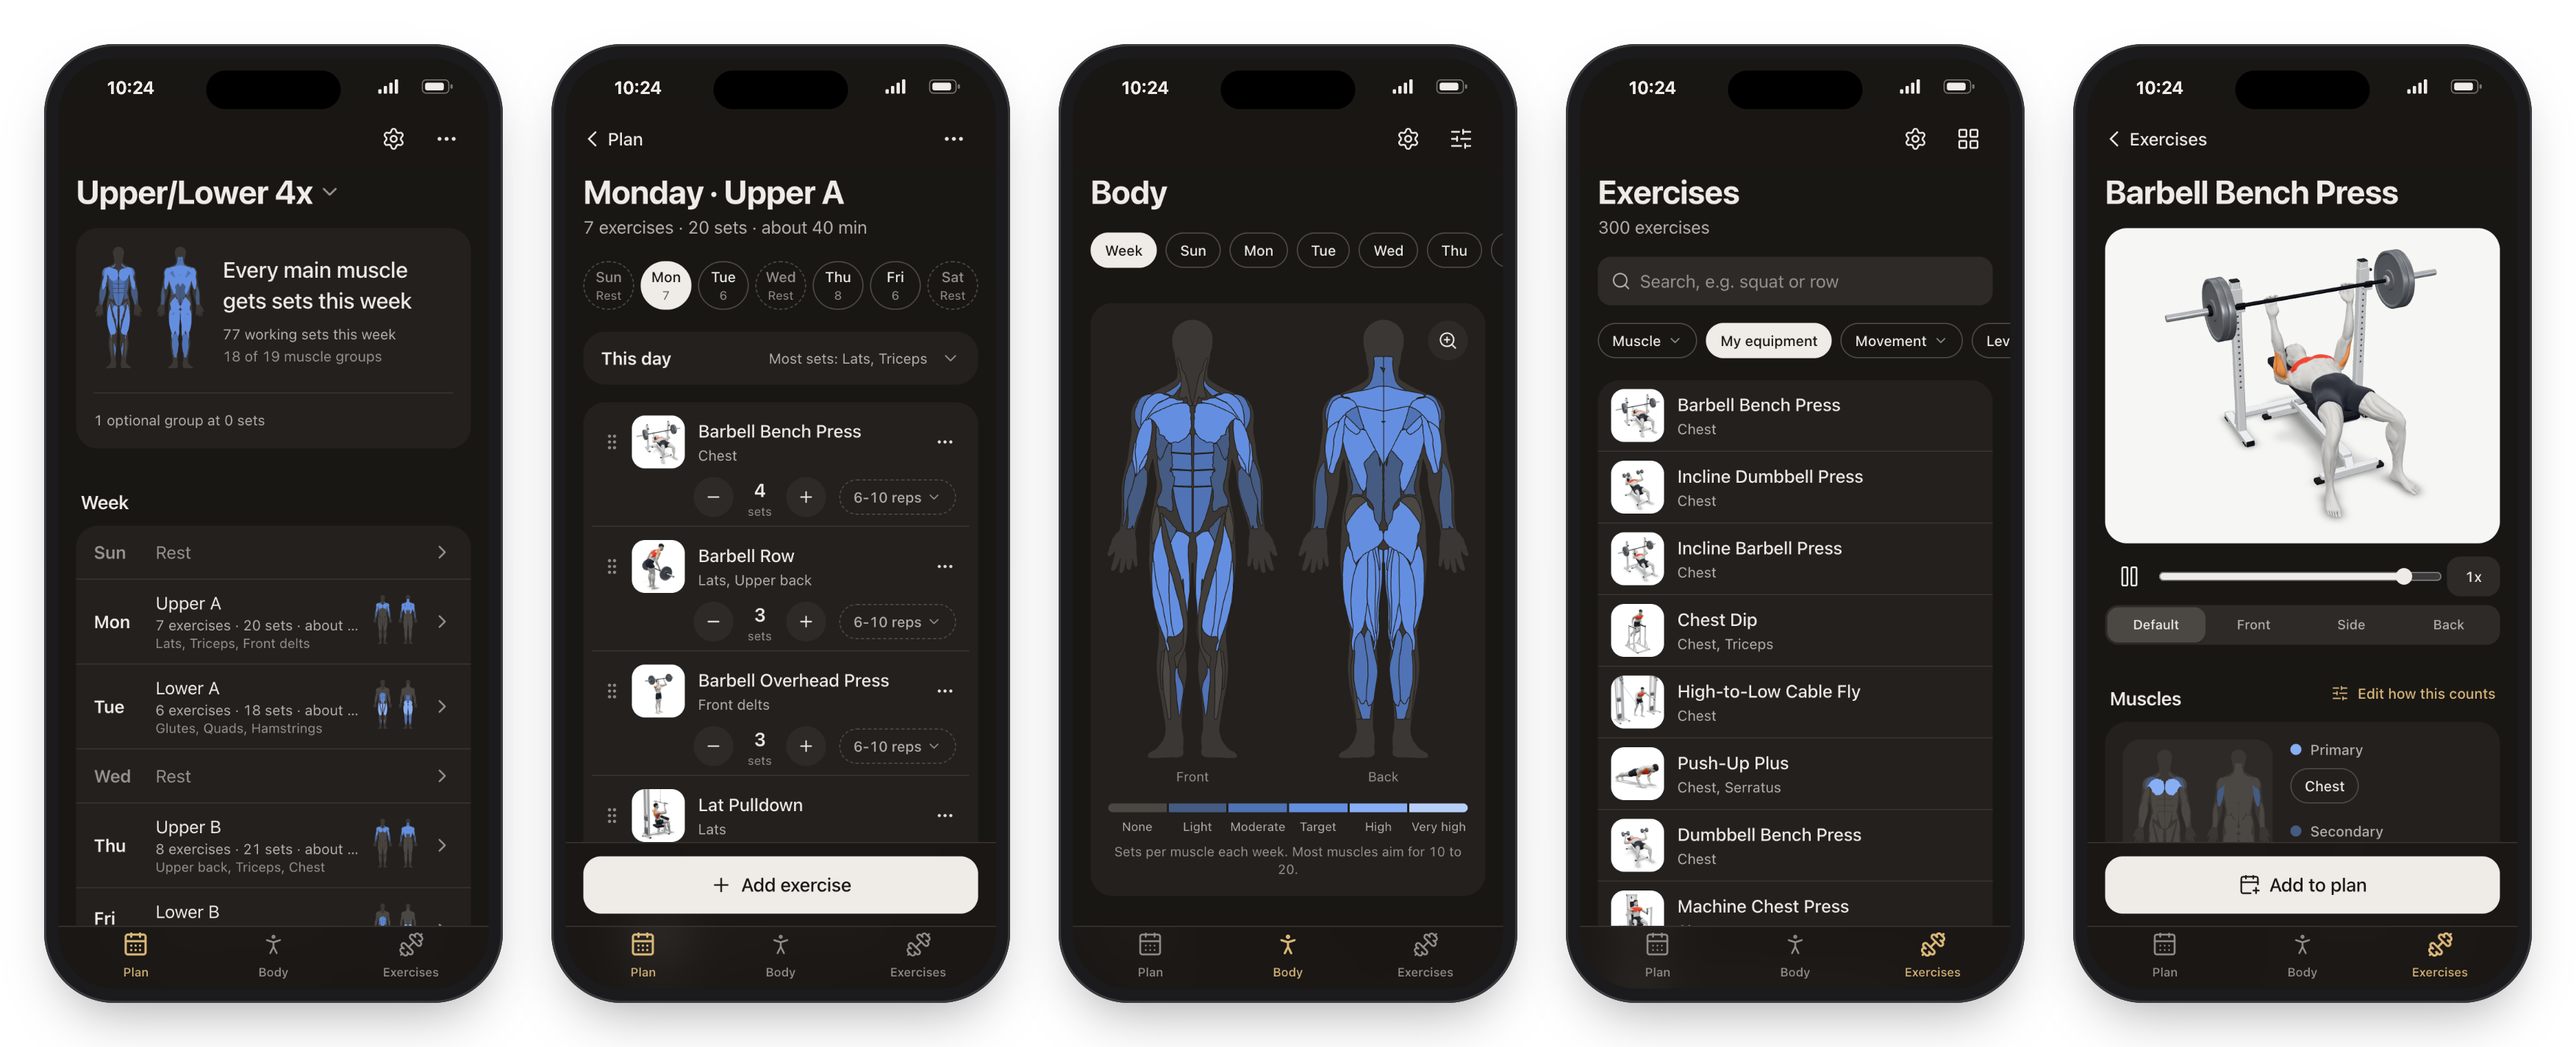
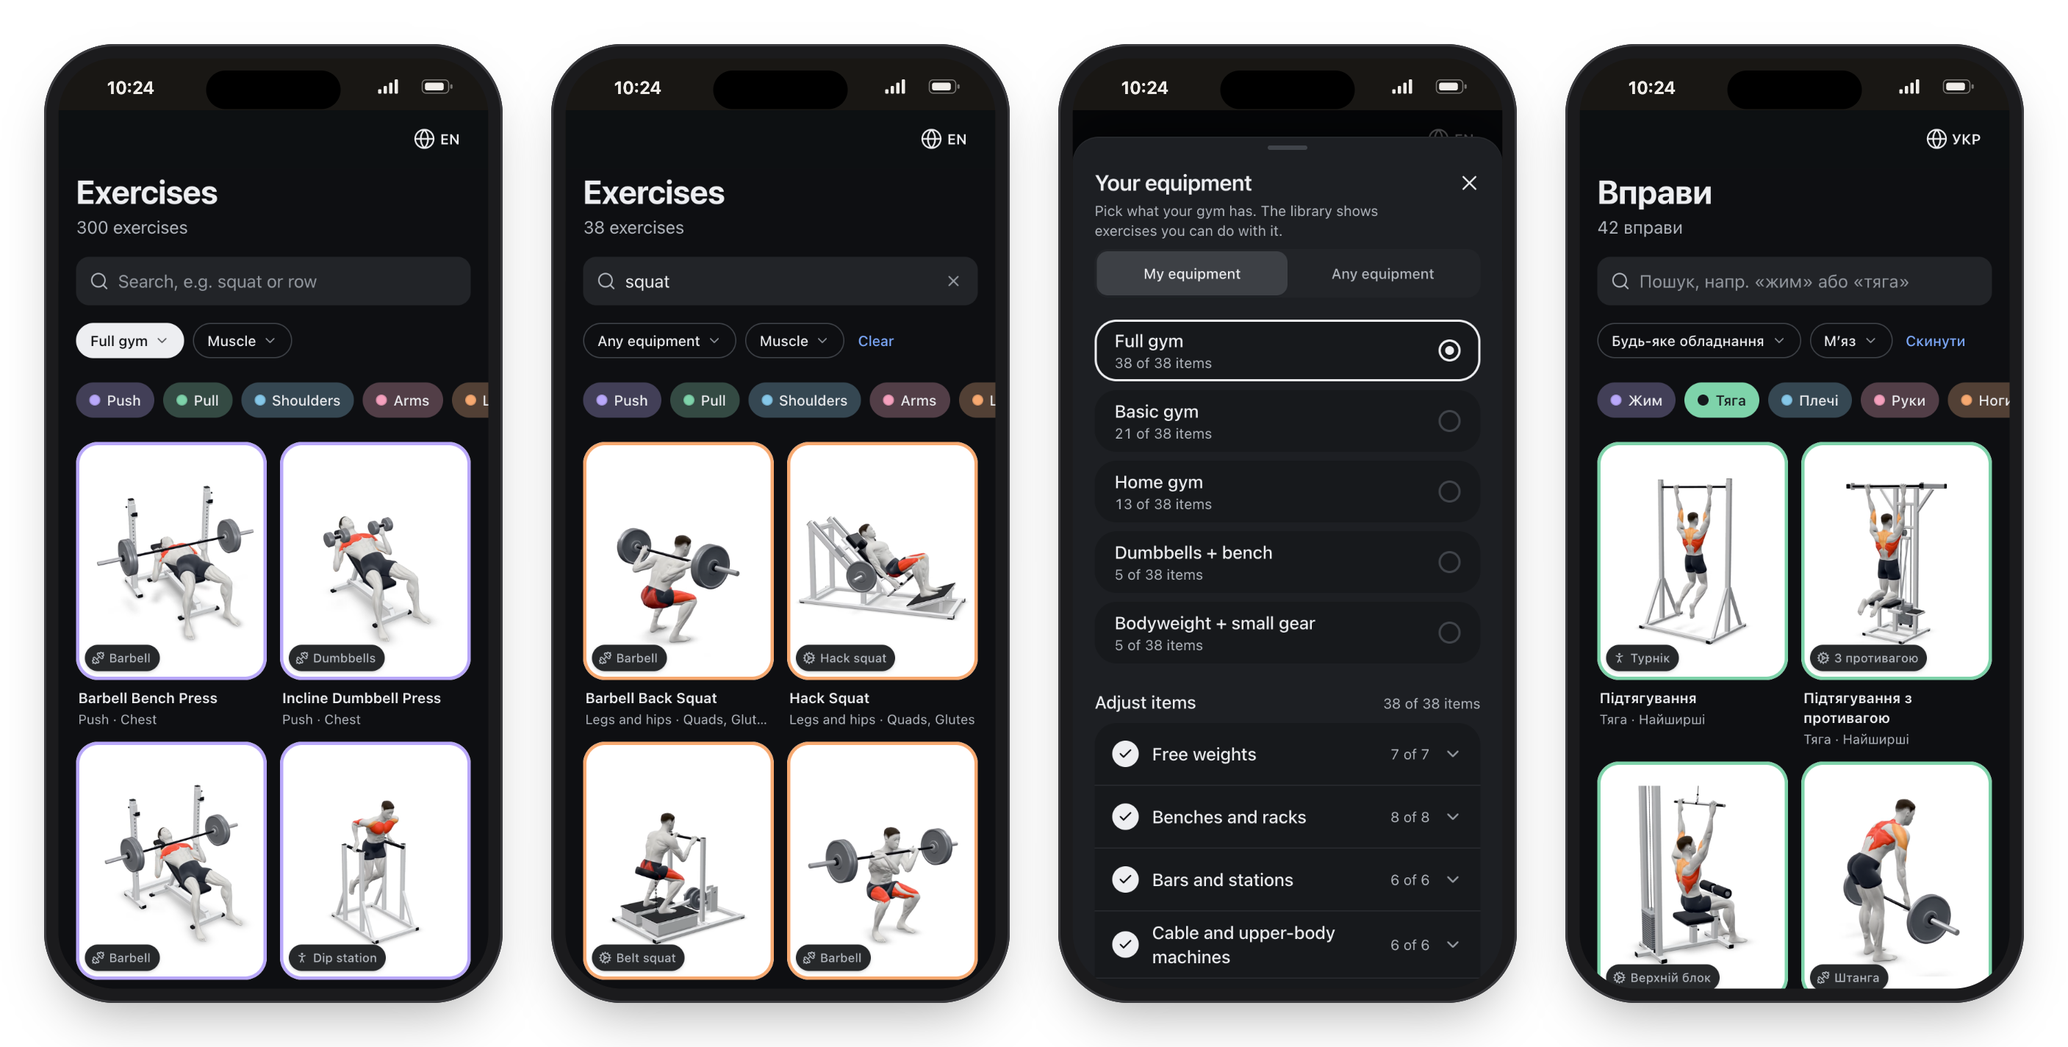
Update README and its screenshots for the library

diff --git a/pipeline/render/readme-shots.ts b/pipeline/render/readme-shots.ts
@@ -1,4 +1,4 @@
-// README screenshots: five phone screens in a plain phone frame, one image per color scheme.
+// README screenshots: four phone screens of the library in a plain phone frame, one image per color scheme.
 // Run `pnpm build` first; this serves dist/ so only owner-approved animations show.
 import { existsSync, mkdirSync, statSync } from 'node:fs'
 import path from 'node:path'
@@ -10,14 +10,12 @@ const OUT = path.join(ROOT, 'docs/screenshots')
 const SCALE = 2
 const SCREEN = { width: 390, height: 844 }
 const STATUS_H = 47
-const TEMPLATE = /^Upper\/Lower 4x/
-
+// Loops play on cards, so each shot waits long enough for the on-screen ones to start.
 const SHOTS = [
-  { route: '/', wait: 1200 },
-  { route: '/day/mon', wait: 1200 },
-  { route: '/body', wait: 2500 },
-  { route: '/exercises', wait: 1500 },
-  { route: '/exercise/barbell-bench-press', wait: 4000 },
+  { route: '/', wait: 2500, locale: 'en-US' },
+  { route: '/?q=squat&equip=all', wait: 2500, locale: 'en-US' },
+  { route: '/?sheet=equipment', wait: 1200, locale: 'en-US' },
+  { route: '/?move=pull&equip=all', wait: 2500, locale: 'uk-UA' },
 ] as const
 
 const SCHEMES = {
@@ -36,28 +34,24 @@ if (!base) throw new Error('preview server has no local url')
 const { browser } = await launchMetal()
 
 async function capture(scheme: Scheme): Promise<string[]> {
-  const context = await browser.newContext({
-    viewport: { width: SCREEN.width, height: SCREEN.height - STATUS_H },
-    deviceScaleFactor: SCALE,
-    isMobile: true,
-    hasTouch: true,
-    colorScheme: scheme,
-    locale: 'en-US',
-  })
-  const page = await context.newPage()
-  await page.goto(`${base}/welcome`)
-  await page.getByRole('button', { name: TEMPLATE }).click()
-  await page.getByRole('button', { name: 'Continue' }).click()
-  await page.getByRole('button', { name: 'Continue' }).click()
-  await page.getByRole('button', { name: /^Show my week/ }).click()
-  await page.waitForURL(`${base}/`)
   const shots: string[] = []
-  for (const { route, wait } of SHOTS) {
+  for (const { route, wait, locale } of SHOTS) {
+    // a fresh context per shot, so the language comes from the browser locale and no saved choice carries over
+    const context = await browser.newContext({
+      viewport: { width: SCREEN.width, height: SCREEN.height - STATUS_H },
+      deviceScaleFactor: SCALE,
+      isMobile: true,
+      hasTouch: true,
+      colorScheme: scheme,
+      locale,
+      serviceWorkers: 'block',
+    })
+    const page = await context.newPage()
     await page.goto(`${base}${route}`)
     await page.waitForTimeout(wait)
     shots.push((await page.screenshot({ type: 'png' })).toString('base64'))
+    await context.close()
   }
-  await context.close()
   return shots
 }
 

diff --git a/README.md b/README.md
@@ -1,27 +1,35 @@
 # Tenset
 
-A phone-first, offline exercise library. Search about 300 exercises, filter by muscle, movement group and the equipment your gym has, and watch each one as a short loop of our own procedural 3D figure with the worked muscles highlighted. English and Ukrainian.
-
-No accounts and no backend: the chosen language and equipment live in the browser (localStorage).
+A phone-first, offline exercise library. Every exercise plays as a short loop of our own procedural 3D figure, with the worked muscles highlighted.
 
 Live: https://tenset-app.vercel.app
 
 <picture>
   <source media="(prefers-color-scheme: dark)" srcset="docs/screenshots/phones-dark.png">
-  <img src="docs/screenshots/phones-light.png" alt="Tenset on a phone: the week plan, a training day, the body map, the exercise catalog and an animated exercise">
+  <img src="docs/screenshots/phones-light.png" alt="Tenset on a phone: the exercise library, a search for squat, the equipment picker, and the library in Ukrainian filtered to pull exercises">
 </picture>
+
+## What it does
+
+- **Search** about 300 exercises by name, common abbreviation (RDL, OHP), muscle or equipment. Ukrainian search also matches English names.
+- **Filter** by muscle (tap it on a body map or pick from a list), by movement group (push, pull, shoulders, arms, legs, core), and by the equipment your gym has: start from a preset (full gym, basic gym, home gym, dumbbells and bench, bodyweight) and adjust single items.
+- **Watch** each exercise on its card: the loop plays while the card is on screen, and the poster stays still under reduced motion. Exercises without an approved loop show their worked muscles on a body map.
+- **English and Ukrainian**, picked from the toolbar. The first visit follows the browser language.
+- **Works offline** after the first visit. Loops and posters are cached as you see them.
+
+No accounts, no backend, no analytics. The chosen language and equipment stay in the browser (localStorage); nothing is sent anywhere.
 
 ## Docs
 
-- `docs/PLAN.md`: scope, architecture and every lead and owner decision (source of truth)
-- `docs/FAMILIES.md`: motion templates, extension points, QA gates and the definition of done per exercise
-- `docs/UI-CONTRACTS.md`: UI component contracts
 - `CLAUDE.md`: hard rules (banned sources, licensing, copy tone)
+- `docs/FAMILIES.md`: motion templates, extension points, QA gates and the definition of done per exercise
+- `docs/I18N.md`: translation rules and glossary
+- `docs/PLAN.md`: content, motion and media decisions (its planner scope is historical)
 - `ATTRIBUTION.md`: credits and third-party licenses (rendered at `/credits`)
 
 ## Stack
 
-Vite, React 19, TypeScript, Tailwind 4, TanStack Router, Zustand + zod, three.js / React Three Fiber (lazy chunk), vite-plugin-pwa with our own service worker, Vitest, Playwright. Package manager: pnpm. Node 24 runs the `pipeline/*.ts` scripts directly.
+Vite, React 19, TypeScript, Tailwind 4, TanStack Router, Zustand + zod, three.js / React Three Fiber (dev review and the bake pipeline only), vite-plugin-pwa with our own service worker, Vitest, Playwright. Package manager: pnpm. Node 24 runs the `pipeline/*.ts` scripts directly.
 
 ## App commands
 
@@ -47,7 +55,7 @@ The figure, motions, loops and posters are generated locally and committed; CI n
 | Bake loops and posters | `node pipeline/render/bake-loops.ts --qa qa/out/loops` (`--only <ids>`; a full run prunes stale files) |
 | Stale-media check | `node pipeline/render/check-media.ts` |
 | Approved renders unchanged | `node pipeline/render/verify-posters.ts` |
-| README phone screenshots (after `pnpm build`) | `node pipeline/render/readme-shots.ts` |
+| README phone screenshots (after `pnpm build`; library, search, equipment sheet, Ukrainian) | `node pipeline/render/readme-shots.ts` |
 
 An exercise shows its animation in production only when its record has `media.status: "loop"` (owner-approved). Dev shows every baked motion.
 
